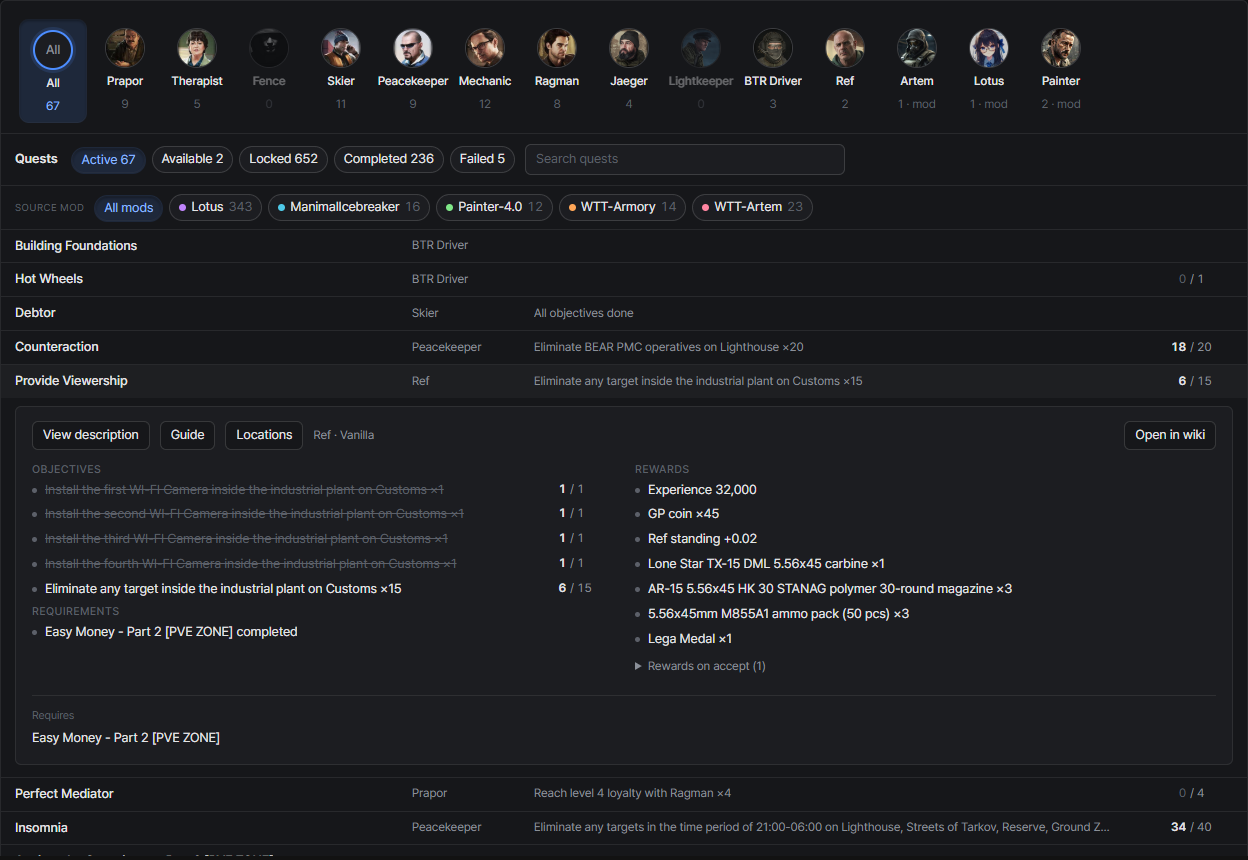
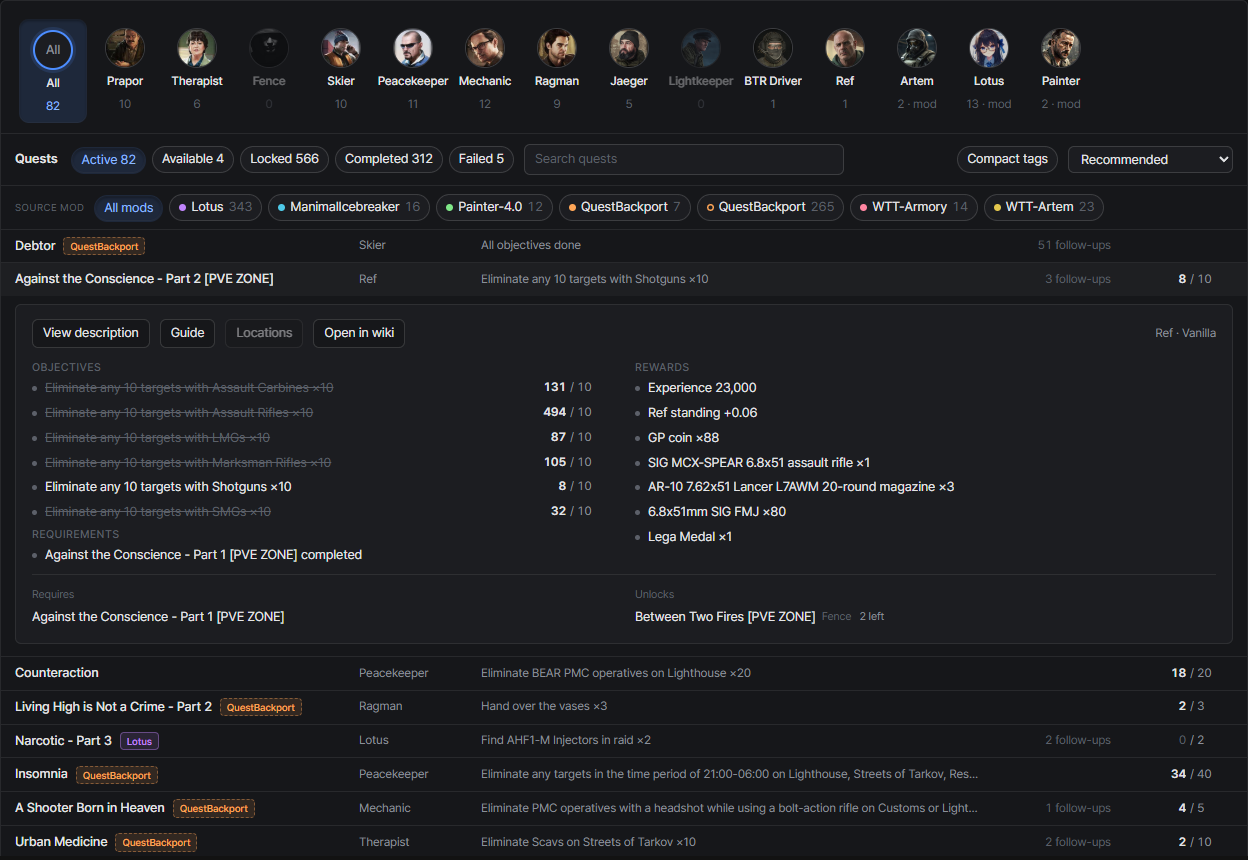
Update the docs for 1.7.0
- Progress overview: follow-up counts on rows and under Unlocks, and the follow-up sort menu
- Quest list: new Compact tags section, and the reworded overridden vanilla meta line
- Retake wiki-filters and progress-overview-quests, add wiki-compact-tags
- Rebuild the Korean and Russian pages with filled translations

diff --git a/docs/_ru/progress/overview.md b/docs/_ru/progress/overview.md
@@ -40,6 +40,7 @@ nav_order: 1
 - Цели показывают свои счётчики, выполненные зачёркнуты
 - Заблокированные задания отмечают стартовые условия, которые вы ещё не выполнили, с вашим текущим значением
 - «Открыть в вики» переходит к заданию в вики; ссылки на связанные задания переходят внутри этого списка
+- У каждого задания в колонке «Открывает» указано, сколько заданий после него ещё осталось
 
 Каждая вкладка сортируется по тому, что вы будете искать в первую очередь:
 
@@ -50,3 +51,13 @@ nav_order: 1
 Задания, которые вы никогда не сможете завершить на этом профиле (только для другой фракции или ветка, которую вы уже закрыли), помечаются как «Недостижимо».
 
 [![Задания по статусу]({{ '/assets/images/progress-overview-quests.png' | relative_url }})]({{ '/assets/images/progress-overview-quests.png' | relative_url }})
+
+### Последующие задания и сортировка {#follow-ups-and-sorting}
+
+В каждой строке указано **дальше заданий: N** — сколько ещё не выполненных заданий в итоге открывает это задание. Подсчёт идёт по цепочке до самого конца, а общая ветка учитывается один раз. У последних заданий цепочки число не показывается.
+
+Меню сортировки рядом с полем поиска задаёт порядок:
+
+- **Рекомендуемый порядок** (по умолчанию): порядок вкладок, описанный выше
+- **Больше всего дальше**: сначала задания, которые открывают больше всего
+- **Меньше всего дальше**

diff --git a/docs/_ru/wiki/quest-list.md b/docs/_ru/wiki/quest-list.md
@@ -40,13 +40,23 @@ nav_order: 1
 Некоторые моды заданий не добавляют новые задания, а подменяют файлы ванильных. Такие задания остаются ванильными, но в вики и на страницах прогресса у них есть метка с названием мода в пунктирной рамке.
 
 - У мода появляется свой чип в строке **Мод-источник** с полой точкой, так что можно вывести все задания, которые он переопределяет
-- В строке сведений раскрытого задания написано **Изменено модом** и название мода
+- В строке сведений раскрытого задания написано **Ванильное задание, изменённое модом**
 
 ## Сортировка {#sorting}
 
 - **По цепочке** (по умолчанию): предварительные условия всегда выше заданий, которые они открывают
 - **По уровню**
 - **По имени**
+
+## Компактные метки {#compact-tags}
+
+Кнопка **Компактные метки** слева от меню сортировки превращает метку с названием мода в цветную точку, чтобы длинные названия модов не теснили названия заданий.
+
+- Цвета точек совпадают с чипами в строке **Мод-источник**; у ванильных заданий, изменённых модом, точка полая
+- Наведите курсор на точку, чтобы увидеть название мода
+- Вики и список заданий в прогрессе запоминают эту настройку отдельно
+
+[![Компактные метки]({{ '/assets/images/wiki-compact-tags.png' | relative_url }})]({{ '/assets/images/wiki-compact-tags.png' | relative_url }})
 
 ## Прямые ссылки {#deep-links}
 

diff --git a/docs/_kr/wiki/quest-list.md b/docs/_kr/wiki/quest-list.md
@@ -40,13 +40,23 @@ nav_order: 1
 퀘스트 모드 중에는 새 퀘스트를 추가하지 않고 바닐라 퀘스트 파일을 바꿔치기하는 것도 있습니다. 이런 퀘스트는 바닐라로 남지만, 위키와 진행현황 페이지에서 점선 테두리 태그로 모드 이름이 붙습니다.
 
 - **출처 모드**(Source mod) 줄에 그 모드 칩이 속이 빈 점으로 따로 생겨서, 그 모드가 덮어쓴 퀘스트를 모아 볼 수 있습니다
-- 퀘스트를 펼치면 메타 줄에 **○○에 의해 수정됨**(Overridden by)이 모드 이름과 함께 표시됩니다
+- 퀘스트를 펼치면 메타 줄에 **모드에 의해 수정된 바닐라 퀘스트**(Vanilla quest overridden by a mod)라고 표시됩니다
 
 ## 정렬 {#sorting}
 
 - **연계순**(By chain, 기본값): 선행 퀘스트가 항상 후속 퀘스트보다 위에 옵니다
 - **레벨순**(By level)
 - **이름순**(By name)
+
+## 태그 간소화 {#compact-tags}
+
+정렬 메뉴 왼쪽의 **태그 간소화**(Compact tags) 버튼을 켜면 모드 이름 태그가 색 점으로 줄어들어, 모드 이름이 길어도 퀘스트 이름이 덜 붐빕니다.
+
+- 점 색은 **출처 모드**(Source mod) 칩과 같고, 모드가 덮어쓴 바닐라 퀘스트는 속이 빈 점입니다
+- 점에 마우스를 올리면 모드 이름이 보입니다
+- 위키와 진행현황 퀘스트 목록은 설정을 따로 기억합니다
+
+[![태그 간소화]({{ '/assets/images/wiki-compact-tags.png' | relative_url }})]({{ '/assets/images/wiki-compact-tags.png' | relative_url }})
 
 ## 딥링크 {#deep-links}
 

diff --git a/docs/_kr/progress/overview.md b/docs/_kr/progress/overview.md
@@ -40,6 +40,7 @@ nav_order: 1
 - 목표마다 진행 수치가 붙고, 끝낸 목표는 취소선으로 표시됩니다
 - 잠긴 퀘스트는 아직 못 채운 시작 조건을 현재 값과 함께 표시합니다
 - **위키에서 보기**(Open in wiki)로 위키의 해당 퀘스트로 이동하고, 연계 퀘스트 링크는 이 목록 안에서 이동합니다
+- **후속**(Unlocks)에 있는 퀘스트마다 남은 하위 퀘스트 수가 붙습니다
 
 탭마다 먼저 볼 만한 퀘스트가 위로 오게 정렬됩니다.
 
@@ -50,3 +51,13 @@ nav_order: 1
 이 프로필로는 끝낼 수 없는 퀘스트(다른 진영 전용이거나 이미 닫힌 분기)는 **도달 불가**(Unreachable)로 표시됩니다.
 
 [![상태별 퀘스트]({{ '/assets/images/progress-overview-quests.png' | relative_url }})]({{ '/assets/images/progress-overview-quests.png' | relative_url }})
+
+### 하위 퀘스트와 정렬 {#follow-ups-and-sorting}
+
+줄마다 **하위 퀘스트 N개**(N follow-ups)가 표시됩니다. 그 퀘스트를 끝내면 이어서 열리는 퀘스트 중 아직 끝내지 않은 수입니다. 후속을 끝까지 따라가며 세고, 여러 갈래가 같은 퀘스트로 모이면 한 번만 셉니다. 연계의 마지막 퀘스트는 비워 둡니다.
+
+검색창 옆 정렬 메뉴로 순서를 고릅니다.
+
+- **추천순**(Recommended, 기본): 위에 적은 탭별 순서
+- **하위 퀘스트 많은순**(Most follow-ups left): 뒤로 많이 열리는 퀘스트가 먼저
+- **하위 퀘스트 적은순**(Fewest follow-ups left)

diff --git a/docs/progress/overview.md b/docs/progress/overview.md
@@ -42,6 +42,7 @@ rewards, related quests), plus your progress:
 - Objectives show their counters, and finished ones are struck through
 - Locked quests mark the start conditions you haven't met yet, with your current value
 - **Open in wiki** jumps to the quest in the wiki; related quest links jump within this list
+- Each quest under **Unlocks** shows how many follow-ups it still has left
 
 Each tab sorts for what you'd look for first:
 
@@ -53,3 +54,14 @@ Quests you can never finish on this profile (other faction only, or a branch you
 marked **Unreachable**.
 
 [![Quests by status](../assets/images/progress-overview-quests.png)](../assets/images/progress-overview-quests.png)
+
+### Follow-ups and sorting
+
+Each row shows **N follow-ups**: how many quests that quest eventually leads to and you haven't finished yet.
+It follows unlocks all the way down and counts a shared branch only once. Quests at the end of a chain show nothing.
+
+The sort menu next to the search box picks the order:
+
+- **Recommended** (default): the per-tab order above
+- **Most follow-ups left**: quests that open up the most first
+- **Fewest follow-ups left**

diff --git a/docs/wiki/quest-list.md b/docs/wiki/quest-list.md
@@ -41,13 +41,24 @@ Some quest mods replace the files of vanilla quests instead of adding new ones. 
 carry the mod's name in a tag with a dashed outline, in the wiki and on the progress pages.
 
 - The mod gets its own chip in the **Source mod** row, with a hollow dot, so you can list every quest it overrides
-- The expanded quest's meta line reads **Overridden by** and the mod name
+- The expanded quest's meta line reads **Vanilla quest overridden by a mod**
 
 ## Sorting
 
 - **By chain** (default): prerequisites always sit above the quests they unlock
 - **By level**
 - **By name**
+
+## Compact tags
+
+The **Compact tags** button left of the sort menu shrinks each mod name tag into a colored dot, so long mod names
+don't crowd the quest names.
+
+- Dots use the same colors as the **Source mod** chips; overridden vanilla quests get a hollow dot
+- Hover a dot to see the mod name
+- The wiki and the progress quest list each remember their own setting
+
+[![Compact tags](../assets/images/wiki-compact-tags.png)](../assets/images/wiki-compact-tags.png)
 
 ## Deep links
 
